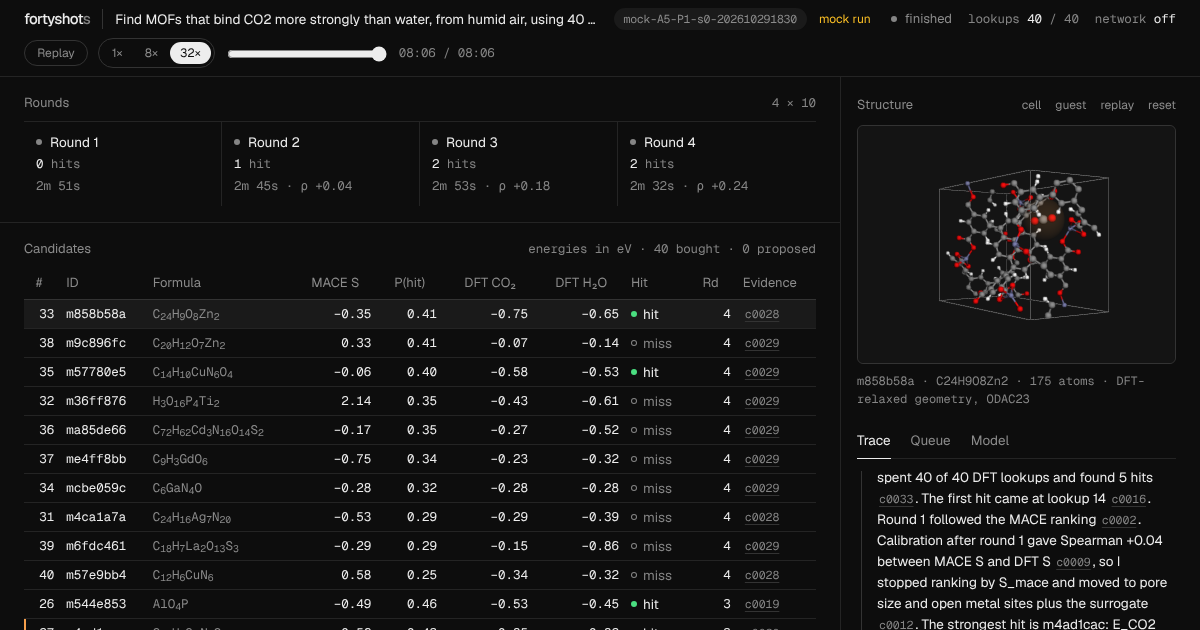
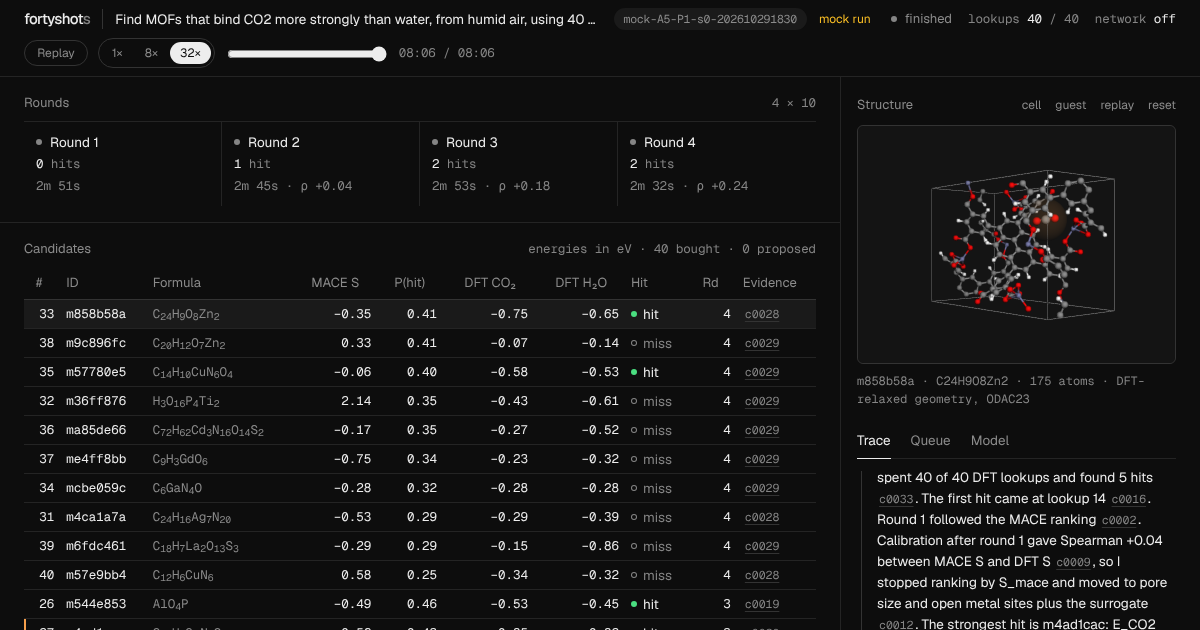
Video tooling: final plan tweak; regenerated OG image
Claude-Session: https://claude.ai/code/session_01Rts9BevK2TcgrfxMzyh1e9

Changed region(s): [[0.7708, 0.2714, 0.925, 0.5127]]

diff --git a/web/scripts/video/plan.py b/web/scripts/video/plan.py
@@ -124,6 +124,17 @@ class Plan:
             parts.append(f"enable='{enable}'")
         return "drawtext=" + ":".join(parts)
 
+    def two_tone(self, left: str, right: str, x: int, y: int, size: int, enable: str) -> list[str]:
+        """White + grey text on one opaque background-coloured plate (drawbox, so both halves share it)."""
+        adv = self.a.advance * size
+        text_w = int(len(f"{left} {right}") * adv)
+        padx, top, bottom = int(size * 0.6), int(size * 0.05), int(size * 1.45)
+        out = [f"drawbox=x={x - padx}:y={y + top - int(size * 0.35)}:w={text_w + 2 * padx}:h={bottom - top + int(size * 0.35)}:color={BG}@1:t=fill:enable='{enable}'"]
+        out.append(self.drawtext(left, x, y, size, FG, enable=enable))
+        if right:
+            out.append(self.drawtext(right, x + int(len(left + " ") * adv), y, size, MUTED, enable=enable))
+        return out
+
     def speed_label(self, factor: float) -> str:
         txt = f"{int(round(factor))}× speed" if abs(factor - round(factor)) < 0.05 else f"{factor:.1f}× speed"
         size = 30 if not self.vertical else 34
@@ -251,7 +262,7 @@ class Plan:
         margin = 96 if self.vertical else 160
         adv = self.a.advance
         if self.vertical:
-            size = 60
+            size = 68
             width_chars = int((W - 2 * margin) / (adv * size))
             laid = []
             for text, color in lines:
@@ -386,7 +397,7 @@ class Plan:
             if b <= skip_before:
                 continue
             cues.append((max(a, skip_before), b, " ".join(ls[2:])))
-        size = 46 if self.vertical else 40
+        size = 52 if self.vertical else 40
         margin_v = 300 if self.vertical else 56
         side = 72 if self.vertical else 160
         width_chars = int((self.W - 2 * side) / (self.a.advance * size))
@@ -432,16 +443,12 @@ class Plan:
             size = 30
             x, y = 96, self.H - 56 - 2 * 40 - 120
             en = f"between(t,{last[0] + 0.4:.2f},{last[1]:.2f})"
-            vf.append(self.drawtext(left, x, y, size, FG, box=True, enable=en))
-            if right:
-                x2 = x + int(len(left + " ") * a.advance * size)
-                vf.append(self.drawtext("· " + right, x2, y, size, MUTED, box=True, enable=en))
+            vf += self.two_tone(left, ("· " + right) if right else "", x, y, size, en)
         for s0, s1 in self.live_spans:
             size = 30
             x, y = 96, 72
             en = f"between(t,{s0 + 0.3:.2f},{s1:.2f})"
-            vf.append(self.drawtext(LIVE_NOTE[0], x, y, size, FG, box=True, enable=en))
-            vf.append(self.drawtext(LIVE_NOTE[1], x + int((len(LIVE_NOTE[0]) + 1) * a.advance * size), y, size, MUTED, box=True, enable=en))
+            vf += self.two_tone(LIVE_NOTE[0], LIVE_NOTE[1], x, y, size, en)
         if a.captions == "burn":
             srt = Path(self.tl["srt"]["x_clip" if self.vertical else "main"])
             skip = 0.0
